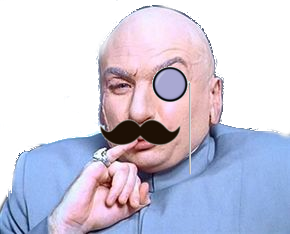
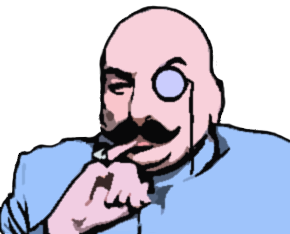
editing dr monocle

diff --git a/src/Loader.js b/src/Loader.js
@@ -16,7 +16,7 @@ define([], function ()
         game.load.image('objects', 'assets/tiles/objects-sheet.png');
         game.load.image('box', 'assets/objects/box.png');
         game.load.image('player', 'assets/characters/player-small.png');
-        game.load.image('scientist', 'assets/characters/MadScientist.png');
+        game.load.image('scientist', 'assets/characters/dr-monocle-dialog.png');
     };
 
     return Loader;
